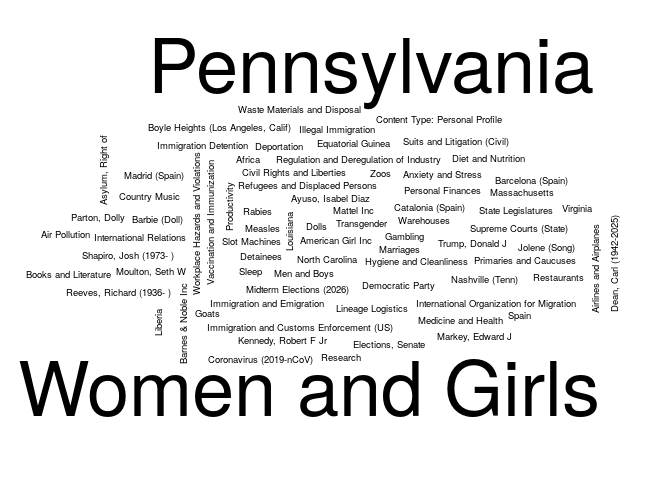
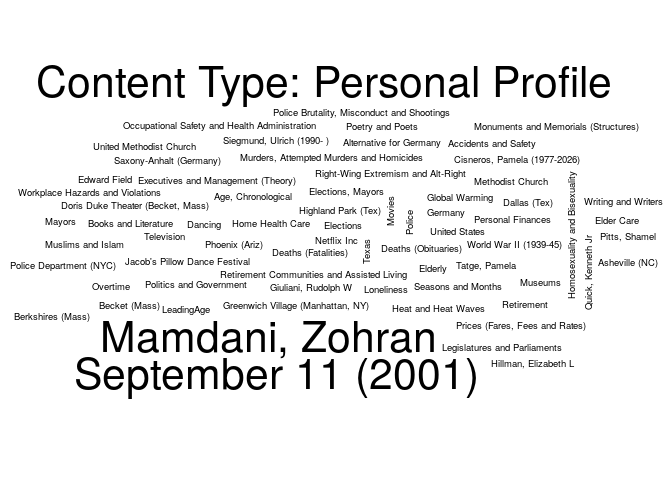
Updating the NYT report

Changed region(s): [[0.0, 0.0625, 1.0, 0.875]]

diff --git a/03-nytimes/README.md b/03-nytimes/README.md
@@ -5,7 +5,7 @@ The following is an example of how to use the [NYTimes
 API](https://developer.nytimes.com/) to get a list of articles related
 to a particular term. Here we are searching articles that include the
 term `"health"`, and that were published up to seven days ago since
-2026-08-31.
+2026-09-07.
 
 ``` r
 # Preparing a function to use the GET method with the NYTimes API
@@ -83,25 +83,25 @@ colnames(tab) <- c("Keyword", "# Articles")
 knitr::kable(tab, row.names = FALSE)
 ```
 
-| Keyword                               | \# Articles |
-|:--------------------------------------|------------:|
-| Pennsylvania                          |          10 |
-| United States Politics and Government |          10 |
-| Women and Girls                       |          10 |
-| Africa                                |           5 |
-| Air Pollution                         |           5 |
-| Airlines and Airplanes                |           5 |
-| American Girl Inc                     |           5 |
-| Anxiety and Stress                    |           5 |
-| Asylum, Right of                      |           5 |
-| Ayuso, Isabel Diaz                    |           5 |
-| Barbie (Doll)                         |           5 |
-| Barcelona (Spain)                     |           5 |
-| Barnes & Noble Inc                    |           5 |
-| Books and Literature                  |           5 |
-| Boyle Heights (Los Angeles, Calif)    |           5 |
-| Catalonia (Spain)                     |           5 |
-| Civil Rights and Liberties            |           5 |
-| Content Type: Personal Profile        |           5 |
-| Coronavirus (2019-nCoV)               |           5 |
-| Country Music                         |           5 |
+| Keyword                                   | \# Articles |
+|:------------------------------------------|------------:|
+| New York City                             |          15 |
+| Content Type: Personal Profile            |          10 |
+| Mamdani, Zohran                           |          10 |
+| National September 11 Memorial and Museum |          10 |
+| September 11 (2001)                       |          10 |
+| Accidents and Safety                      |           5 |
+| Age, Chronological                        |           5 |
+| Alternative for Germany                   |           5 |
+| Asheville (NC)                            |           5 |
+| Becket (Mass)                             |           5 |
+| Berkshires (Mass)                         |           5 |
+| Books and Literature                      |           5 |
+| Cisneros, Pamela (1977-2026)              |           5 |
+| Dallas (Tex)                              |           5 |
+| Dancing                                   |           5 |
+| Deaths (Fatalities)                       |           5 |
+| Deaths (Obituaries)                       |           5 |
+| Doris Duke Theater (Becket, Mass)         |           5 |
+| Edward Field                              |           5 |
+| Elder Care                                |           5 |
